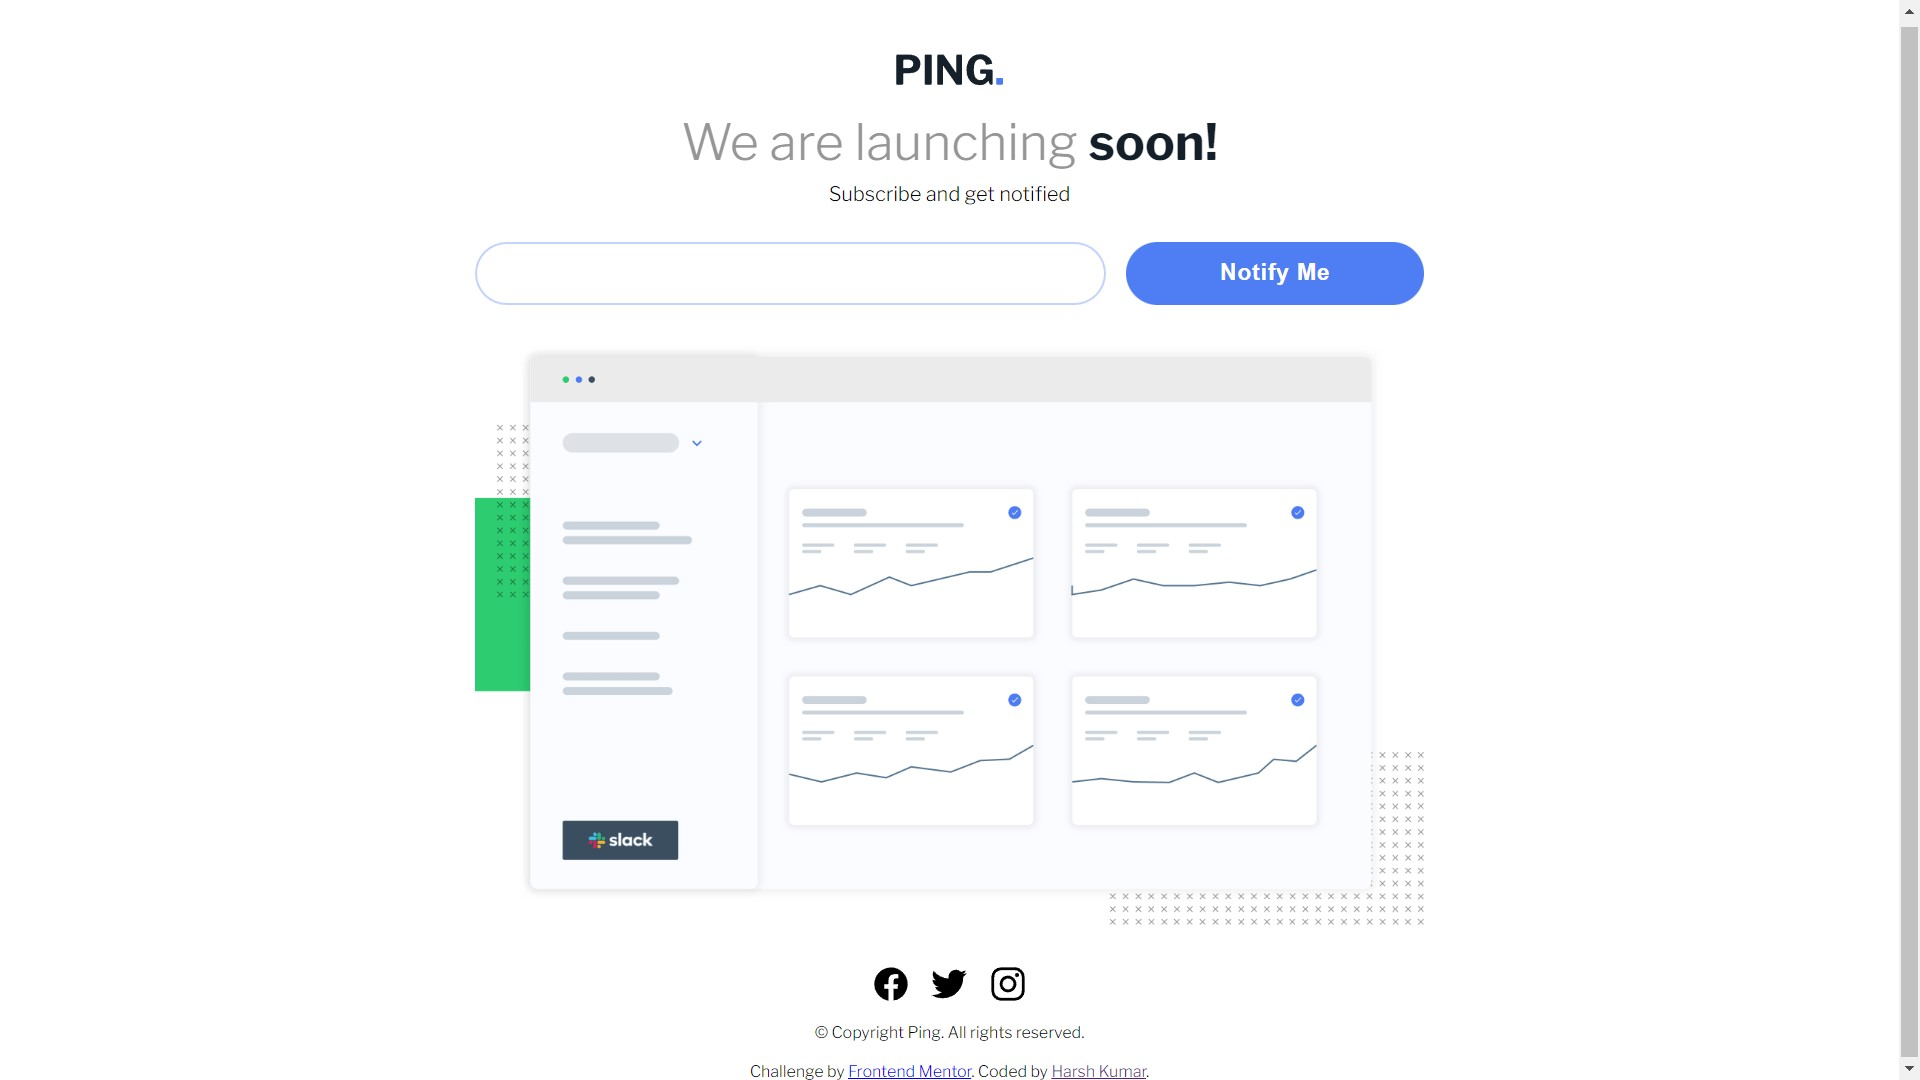
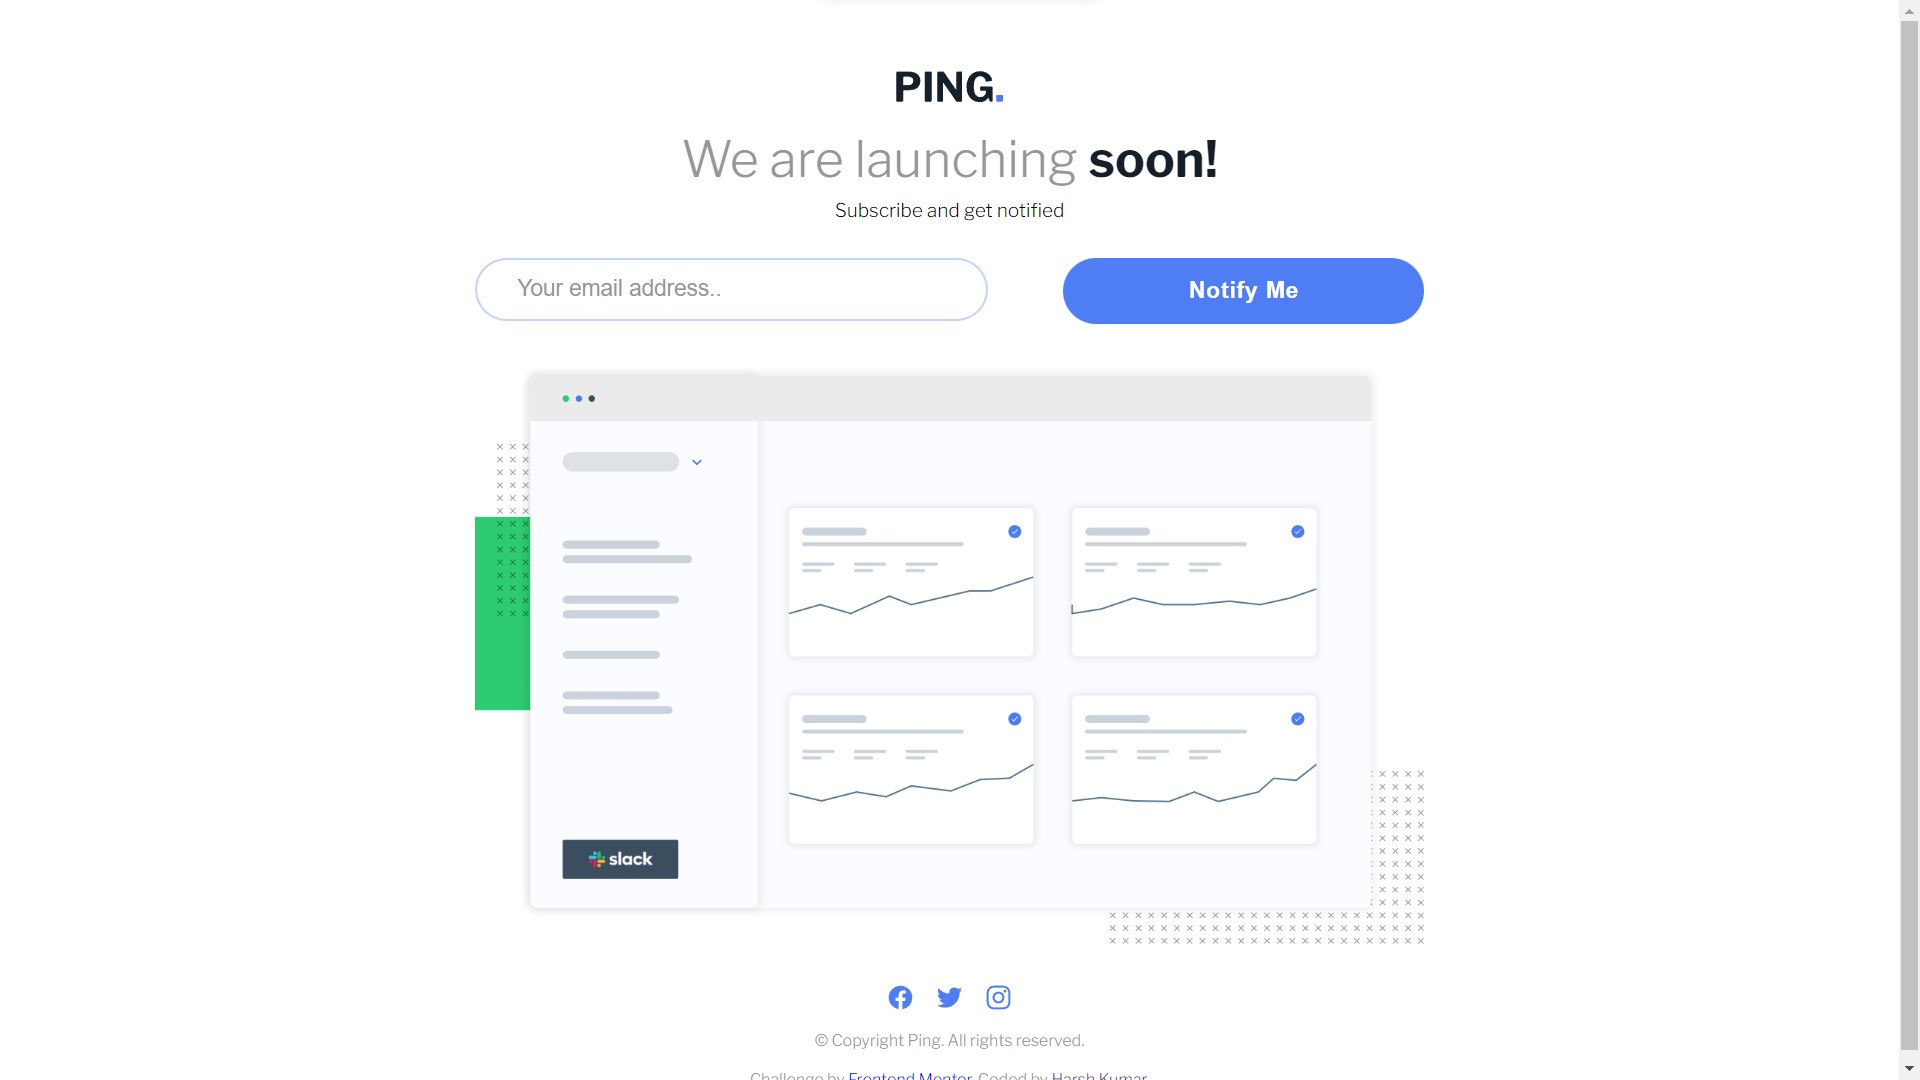
project 21 done

diff --git a/ping-coming-soon-page-master/README.md b/ping-coming-soon-page-master/README.md
@@ -33,8 +33,8 @@ Users should be able to:
 
 ### Links
 
-- Solution URL: [Solution url]()
-- Live Site URL: [Live site]()
+- Solution URL: [Solution url](https://github.com/thisisharsh7/30-Days-of-code/tree/main/ping-coming-soon-page-master)
+- Live Site URL: [Live site](https://starlit-churros-5eb4ae.netlify.app/)
 
 ## My process
 
@@ -44,10 +44,11 @@ Users should be able to:
 - CSS custom properties
 - Flexbox
 - Mobile-first workflow
+- Grid
 
 ### What I learned
 
-On process---
+In this i learned in Email validator also how to align the items using grid.
 
 
 ## Author
